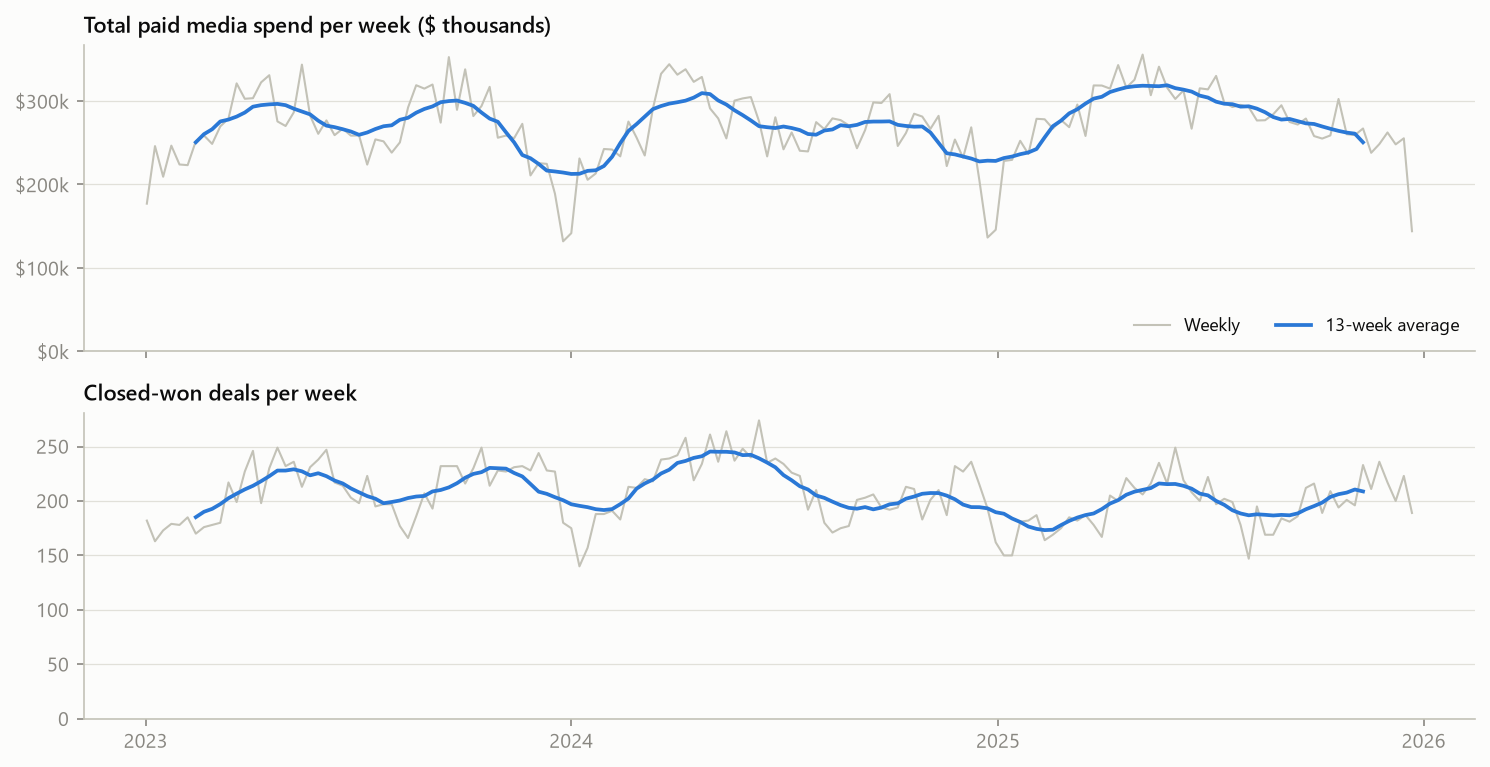
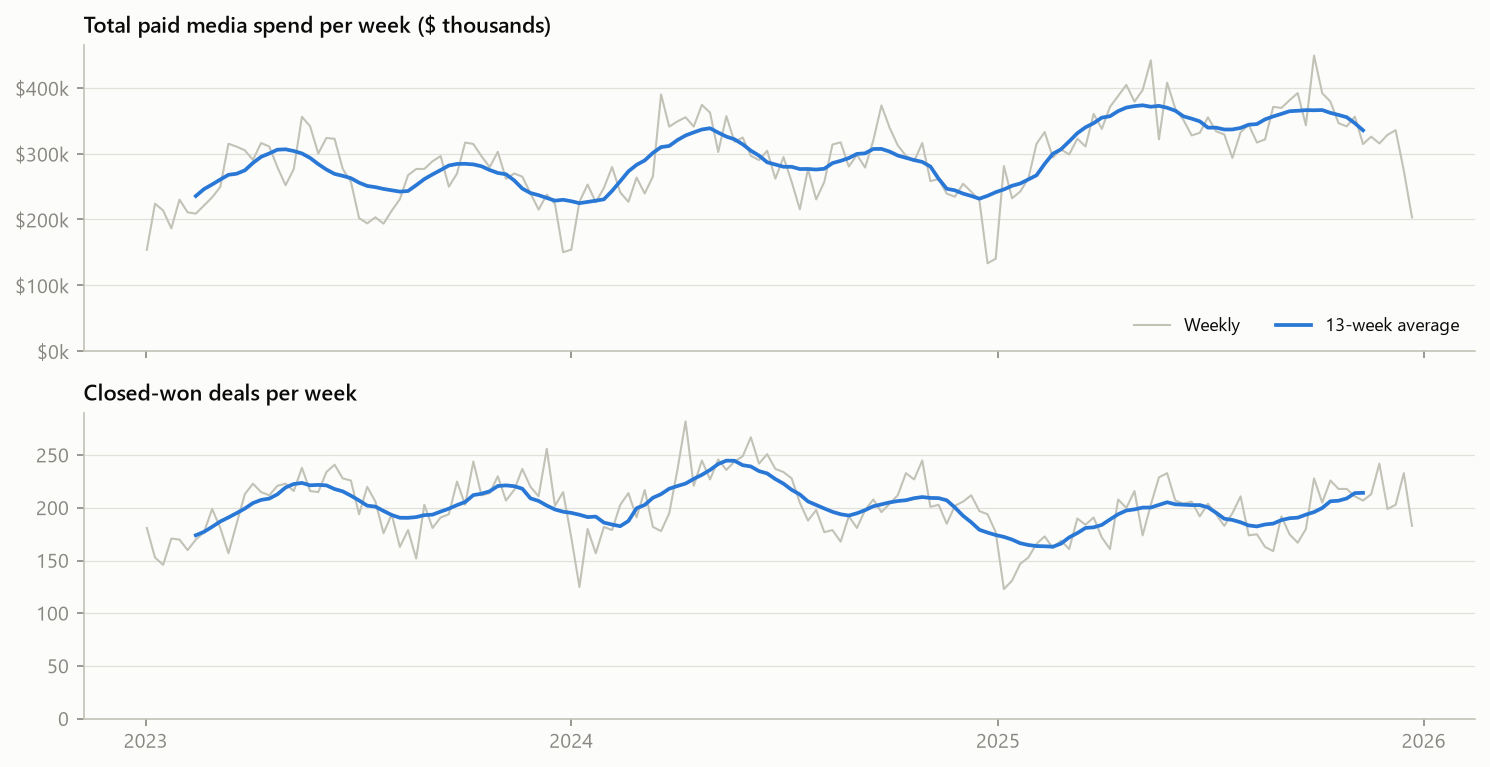
docs(eda): regenerate on the rebuilt world
Spend per deal goes $1,284, $1,349, $1,774. The collinearity check now flags
non-brand search against LinkedIn (0.78), the budget drift the story needs.

diff --git a/docs/eda/EDA.md b/docs/eda/EDA.md
@@ -4,7 +4,7 @@ Built by `python -m eda` from the dbt warehouse only: the golden tables plus a f
 
 ## 1. Validation checks
 
-10 of 10 checks pass; notes flag known limits. The dbt tests (`dbt build`) cover row-level rules; these are the checks an analyst reads before trusting the data.
+9 of 10 checks pass; notes flag known limits. The dbt tests (`dbt build`) cover row-level rules; these are the checks an analyst reads before trusting the data.
 
 | Check | Result | Status |
 |---|---|---|
@@ -12,13 +12,13 @@ Built by `python -m eda` from the dbt warehouse only: the golden tables plus a f
 | fct_channel_weekly is a full grid | 28,080 rows (expected 28,080) | Pass |
 | fct_funnel is a full grid | 40,560 rows (expected 40,560) | Pass |
 | fct_controls_weekly is a full grid | 3,120 rows (expected 3,120) | Pass |
-| Spend matches the platform exports | $42.1M in both; difference $0.00 | Pass |
+| Spend matches the platform exports | $45.6M in both; difference $0.00 | Pass |
 | No negative values; clicks never exceed impressions | 0 bad rows | Pass |
-| Every lead maps to a channel | 0 unmapped of 820,238; 18% recorded as direct | Pass |
+| Every lead maps to a channel | 0 unmapped of 830,748; 19% recorded as direct | Pass |
 | Lead to close (won deals) | median 14 days; 80% between 8 and 24 | Pass |
-| Censoring at the end of the window | 37% of opportunities from the last 4 weeks are still open; treat the final weeks of deals as incomplete | Note |
+| Censoring at the end of the window | 36% of opportunities from the last 4 weeks are still open; treat the final weeks of deals as incomplete | Note |
 | Promo and price calendar loaded | 4 entries | Pass |
-| Channels are not collinear | largest correlation 0.46 (Paid Search Brand and Paid Search Non-Brand); largest VIF 2.2 | Pass |
+| Channels are not collinear | largest correlation 0.78 (Paid Search Non-Brand and LinkedIn); largest VIF 4.3 | Review |
 
 ## 2. Outcome and spend over time
 
@@ -26,9 +26,9 @@ Built by `python -m eda` from the dbt warehouse only: the golden tables plus a f
 
 | Year | Paid spend | Leads | Closed-won deals | New contract value | Spend per deal |
 |---|---|---|---|---|---|
-| 2023 | $13.9M | 235,770 | 10,930 | $29.6M | $1,269 |
-| 2024 | $13.9M | 234,455 | 11,197 | $32.0M | $1,244 |
-| 2025 | $14.3M | 231,238 | 9,999 | $29.8M | $1,435 |
+| 2023 | $13.5M | 231,293 | 10,517 | $28.5M | $1,284 |
+| 2024 | $14.8M | 242,658 | 11,008 | $31.5M | $1,349 |
+| 2025 | $17.2M | 244,894 | 9,713 | $29.0M | $1,774 |
 
 The last few weeks of 2025 are undercounted for deals, because those leads have not had time to close.
 
@@ -40,14 +40,14 @@ Expected pattern for Midwest service fleets: busy when the season turns (AC swit
 
 | Period | Expected | Leads index (100 = average week) | Holds |
 |---|---|---|---|
-| Holiday weeks (51, 52, 1) | well below 100 | 71 | Yes |
-| Thanksgiving week (47) | below 100 | 94 | Yes |
-| Winter after the holidays (weeks 3 to 9) | below 100 | 92 | Yes |
-| Spring switchover, AC on (weeks 19 to 25) | above 100 | 111 | Yes |
-| Summer lull into early fall (weeks 29 to 37) | below 100 | 95 | Yes |
-| Fall switchover, heat on (weeks 40 to 45) | above 100 | 106 | Yes |
+| Holiday weeks (51, 52, 1) | well below 100 | 72 | Yes |
+| Thanksgiving week (47) | below 100 | 100 | Yes |
+| Winter after the holidays (weeks 3 to 9) | below 100 | 87 | Yes |
+| Spring switchover, AC on (weeks 19 to 25) | above 100 | 112 | Yes |
+| Summer lull into early fall (weeks 29 to 37) | below 100 | 93 | Yes |
+| Fall switchover, heat on (weeks 40 to 45) | above 100 | 117 | Yes |
 
-6 of 6 expectations hold. The data matches the planning calendar. During the year-end promo (weeks 46 to 50), deals run +11% relative to leads, which is what a discount on annual plans should do.
+6 of 6 expectations hold. The data matches the planning calendar. During the year-end promo (weeks 46 to 50), deals run +7% relative to leads, which is what a discount on annual plans should do.
 
 ## 4. How the media was flighted
 
@@ -62,10 +62,10 @@ Expected pattern for Midwest service fleets: busy when the season turns (AC swit
 | Meta | 156 | 20 | 156 | none |
 | LinkedIn | 156 | 20 | 156 | none |
 | YouTube | 156 | 20 | 156 | none |
-| Connected TV | 128 | 8 | 7 | 15 |
+| Connected TV | 103 | 8 | 8 | 15 |
 | Display Retargeting | 156 | 20 | 156 | none |
 | Affiliates and Partners | 156 | 20 | 156 | none |
-| Webinars | 122 | 20 | 1 | 8 |
+| Webinars | 123 | 20 | 1 | 8 |
 
 Media plan changes logged between annual plans:
 
@@ -80,12 +80,13 @@ Media plan changes logged between annual plans:
 | 2024-04-01 | Connected TV | -34% | Attribution review: video and CTV show few last-touch leads |
 | 2024-04-01 | Paid Search Non-Brand | +12% | Attribution review: video and CTV show few last-touch leads |
 | 2024-04-01 | YouTube | -31% | Attribution review: video and CTV show few last-touch leads |
-| 2024-08-05 | Display Retargeting | -15% | Cost cut during the hiring freeze |
-| 2024-08-05 | LinkedIn | -19% | Cost cut during the hiring freeze |
-| 2024-08-05 | Meta | -17% | Cost cut during the hiring freeze |
+| 2024-08-05 | LinkedIn | -19% | Hiring freeze: brand programs trimmed, search protected |
+| 2024-08-05 | Meta | -17% | Hiring freeze: brand programs trimmed, search protected |
+| 2024-08-05 | Paid Search Non-Brand | +10% | Hiring freeze: brand programs trimmed, search protected |
 | 2024-11-04 | Affiliates and Partners | -24% | Two reseller contracts end |
 | 2025-02-03 | Display Retargeting | +13% | New fiscal year: more for what last touch rewards |
-| 2025-02-03 | Paid Search Non-Brand | +9% | New fiscal year: more for what last touch rewards |
+| 2025-02-03 | LinkedIn | -15% | New fiscal year: more for what last touch rewards |
+| 2025-02-03 | Paid Search Non-Brand | +20% | New fiscal year: more for what last touch rewards |
 | 2025-06-02 | Meta | +23% | Meta retest after a new creative agency |
 | 2025-06-02 | YouTube | -14% | Meta retest after a new creative agency |
 
@@ -95,15 +96,15 @@ Media plan changes logged between annual plans:
 
 | Year | Performance | Brand | Events |
 |---|---|---|---|
-| 2023 | 68% | 27% | 5% |
-| 2024 | 76% | 19% | 5% |
-| 2025 | 78% | 16% | 5% |
+| 2023 | 57% | 38% | 5% |
+| 2024 | 67% | 29% | 5% |
+| 2025 | 76% | 19% | 4% |
 
 ## 6. Reporting sources disagree
 
 ![Claims vs CRM](img/claims_vs_crm.png)
 
-Platforms claim 774,768 conversions in total; the CRM credits 402,451 leads to paid channels. Connected TV gets 0 last-touch leads because nobody clicks a TV ad. Neither source measures what a channel adds; that is the MMM's job.
+Platforms claim 815,100 conversions in total; the CRM credits 410,887 leads to paid channels. Connected TV gets 0 last-touch leads because nobody clicks a TV ad. Neither source measures what a channel adds; that is the MMM's job.
 
 ## 7. Controls
 
@@ -123,39 +124,39 @@ What the data shows about how each channel was bought and reported. These are ob
 *Performance channel.* Bids on every search for Fernhook, always on in every market. Spend follows how many people search the brand, and Meta, YouTube and CTV ads drive some of those searches.
 
 - **When it ran:** On every week of the window; used in 20 of 20 regions, with about 20 active in a typical on-week. Always on in every region it uses.
-- **Spend:** 2023: $2.4M, 2024: $2.5M, 2025: $2.5M. Highest in Q2, lowest in Q3; the biggest week was 1.3 times a typical on-week. The top 5 regions take 50% of its spend and hold 51% of target accounts.
+- **Spend:** 2023: $2.4M, 2024: $2.5M, 2025: $2.6M. Highest in Q2, lowest in Q1; the biggest week was 1.4 times a typical on-week. The top 5 regions take 51% of its spend and hold 51% of target accounts.
 - **Plan changes:** none between annual plans.
-- **Reporting:** the platform claims 119,955 conversions; the CRM credits 130,792 last-touch leads (0.9 times). Last-touch cost per lead: 2023: $52, 2024: $57, 2025: $61.
-- **What to watch in the MMM:** its weekly spend tracks total leads closely (correlation 0.88). Spend that follows demand can look like it causes demand, and Meta, YouTube and CTV create some of the searches it pays for. It never pauses, so no test separates what it adds from the demand it follows.
+- **Reporting:** the platform claims 127,363 conversions; the CRM credits 137,074 last-touch leads (0.9 times). Last-touch cost per lead: 2023: $51, 2024: $53, 2025: $58.
+- **What to watch in the MMM:** its weekly spend tracks total leads closely (correlation 0.92). Spend that follows demand can look like it causes demand, and Meta, YouTube and CTV create some of the searches it pays for. It never pauses, so no test separates what it adds from the demand it follows.
 
 ### Paid Search Non-Brand
 
 *Performance channel.* Always on in every market. Budgets lean into busy seasons and are re-split across markets every quarter.
 
 - **When it ran:** On every week of the window; used in 20 of 20 regions, with about 20 active in a typical on-week. Always on in every region it uses.
-- **Spend:** 2023: $3.7M, 2024: $4.3M, 2025: $5.4M. Highest in Q2, lowest in Q4; the biggest week was 1.6 times a typical on-week. The top 5 regions take 49% of its spend and hold 47% of target accounts.
-- **Plan changes:** Apr 2023 +7% (Q1 review: CTV test expands, YouTube trimmed); Apr 2024 +12% (Attribution review: video and CTV show few last-touch leads); Feb 2025 +9% (New fiscal year: more for what last touch rewards).
-- **Reporting:** the platform claims 170,135 conversions; the CRM credits 115,877 last-touch leads (1.5 times). Last-touch cost per lead: 2023: $104, 2024: $110, 2025: $130.
-- **What to watch in the MMM:** always on and seasonal (correlation with total leads 0.42), so most of its signal comes from quarterly market re-splits and plan changes, not from week-to-week swings.
+- **Spend:** 2023: $3.4M, 2024: $5.2M, 2025: $8.4M. Highest in Q2, lowest in Q1; the biggest week was 2.2 times a typical on-week. The top 5 regions take 57% of its spend and hold 50% of target accounts.
+- **Plan changes:** Apr 2023 +7% (Q1 review: CTV test expands, YouTube trimmed); Apr 2024 +12% (Attribution review: video and CTV show few last-touch leads); Aug 2024 +10% (Hiring freeze: brand programs trimmed, search protected); Feb 2025 +20% (New fiscal year: more for what last touch rewards).
+- **Reporting:** the platform claims 168,911 conversions; the CRM credits 115,411 last-touch leads (1.5 times). Last-touch cost per lead: 2023: $115, 2024: $133, 2025: $180.
+- **What to watch in the MMM:** always on and seasonal (correlation with total leads 0.40), so most of its signal comes from quarterly market re-splits and plan changes, not from week-to-week swings.
 
 ### Meta
 
 *Brand channel.* Always-on prospecting that pushes before and into the spring and fall busy seasons and eases off in slow weeks. Each market's timing differs.
 
 - **When it ran:** On every week of the window; used in 20 of 20 regions, with about 20 active in a typical on-week. Always on in every region it uses.
-- **Spend:** 2023: $1.6M, 2024: $1.1M, 2025: $1.1M. Highest in Q2, lowest in Q4; the biggest week was 1.7 times a typical on-week. The top 5 regions take 42% of its spend and hold 34% of target accounts.
-- **Plan changes:** Oct 2023 -12% (Q4 plan: more retargeting for year-end); Aug 2024 -17% (Cost cut during the hiring freeze); Jun 2025 +23% (Meta retest after a new creative agency).
-- **Reporting:** the platform claims 189,241 conversions; the CRM credits 52,670 last-touch leads (3.6 times). Last-touch cost per lead: 2023: $75, 2024: $68, 2025: $68.
+- **Spend:** 2023: $1.6M, 2024: $1.4M, 2025: $1.4M. Highest in Q4, lowest in Q1; the biggest week was 3.0 times a typical on-week. The top 5 regions take 47% of its spend and hold 47% of target accounts.
+- **Plan changes:** Oct 2023 -12% (Q4 plan: more retargeting for year-end); Aug 2024 -17% (Hiring freeze: brand programs trimmed, search protected); Jun 2025 +23% (Meta retest after a new creative agency).
+- **Reporting:** the platform claims 219,287 conversions; the CRM credits 60,406 last-touch leads (3.6 times). Last-touch cost per lead: 2023: $75, 2024: $72, 2025: $71.
 - **What to watch in the MMM:** pushes land on the busy seasons, so spend rises when demand does. Each market's push comes on its own week and at its own size, and that is the contrast to learn from; the June 2025 retest adds a late step up.
 
 ### LinkedIn
 
-*Performance channel.* Lead-gen forms, always on. Market budgets are re-split every quarter.
+*Brand channel.* Lead-gen forms, always on. Market budgets are re-split every quarter.
 
 - **When it ran:** On every week of the window; used in 20 of 20 regions, with about 20 active in a typical on-week. Always on in every region it uses.
-- **Spend:** 2023: $1.3M, 2024: $1.4M, 2025: $1.1M. Highest in Q2, lowest in Q3; the biggest week was 1.6 times a typical on-week. The top 5 regions take 53% of its spend and hold 48% of target accounts.
-- **Plan changes:** Aug 2024 -19% (Cost cut during the hiring freeze).
-- **Reporting:** the platform claims 42,460 conversions; the CRM credits 20,300 last-touch leads (2.1 times). Last-touch cost per lead: 2023: $191, 2024: $196, 2025: $181.
+- **Spend:** 2023: $1.2M, 2024: $0.8M, 2025: $0.5M. Highest in Q1, lowest in Q3; the biggest week was 1.8 times a typical on-week. The top 5 regions take 66% of its spend and hold 51% of target accounts.
+- **Plan changes:** Aug 2024 -19% (Hiring freeze: brand programs trimmed, search protected); Feb 2025 -15% (New fiscal year: more for what last touch rewards).
+- **Reporting:** the platform claims 29,895 conversions; the CRM credits 14,380 last-touch leads (2.1 times). Last-touch cost per lead: 2023: $190, 2024: $173, 2025: $161.
 - **What to watch in the MMM:** always on with no pauses, so its signal comes from quarterly market re-splits and plan changes.
 
 ### YouTube
@@ -163,19 +164,19 @@ What the data shows about how each channel was bought and reported. These are ob
 *Brand channel.* National flights that run several weeks ahead of each busy season, with a low level in between. Each flight targets about three in four markets.
 
 - **When it ran:** On every week of the window; used in 20 of 20 regions, with about 20 active in a typical on-week. Always on in every region it uses.
-- **Spend:** 2023: $0.8M, 2024: $0.7M, 2025: $0.6M. Highest in Q3, lowest in Q4; the biggest week was 10.0 times a typical on-week. The top 5 regions take 46% of its spend and hold 47% of target accounts.
+- **Spend:** 2023: $1.0M, 2024: $1.0M, 2025: $0.8M. Highest in Q3, lowest in Q4; the biggest week was 12.3 times a typical on-week. The top 5 regions take 50% of its spend and hold 50% of target accounts.
 - **Plan changes:** Apr 2023 -22% (Q1 review: CTV test expands, YouTube trimmed); Apr 2024 -31% (Attribution review: video and CTV show few last-touch leads); Jun 2025 -14% (Meta retest after a new creative agency).
-- **Reporting:** the platform claims 54,859 conversions; the CRM credits 2,816 last-touch leads (19.5 times). Last-touch cost per lead: 2023: $701, 2024: $718, 2025: $732.
+- **Reporting:** the platform claims 74,242 conversions; the CRM credits 3,928 last-touch leads (18.9 times). Last-touch cost per lead: 2023: $726, 2024: $704, 2025: $708.
 - **What to watch in the MMM:** flights are national and run ahead of each busy season, so they line up with the run-up in demand; long carryover means effects can land in the busy weeks after a flight ends.
 
 ### Connected TV
 
 *Brand channel.* A market test in 8 markets. Each runs its own flight ahead of each busy season and goes dark between flights.
 
-- **When it ran:** On 128 of 156 weeks nationally; used in 8 of 20 regions, with about 3 active in a typical on-week. Within a region it typically runs 7 weeks on, then pauses for 15 weeks (40 regional pauses in all).
-- **Spend:** 2023: $1.4M, 2024: $0.9M, 2025: $0.7M. Highest in Q3, lowest in Q1; the biggest week was 3.3 times a typical on-week. The top 5 regions take 78% of its spend and hold 36% of target accounts.
+- **When it ran:** On 103 of 156 weeks nationally; used in 8 of 20 regions, with about 4 active in a typical on-week. Within a region it typically runs 8 weeks on, then pauses for 15 weeks (40 regional pauses in all).
+- **Spend:** 2023: $1.3M, 2024: $1.0M, 2025: $0.6M. Highest in Q2, lowest in Q1; the biggest week was 2.8 times a typical on-week. The top 5 regions take 83% of its spend and hold 36% of target accounts.
 - **Plan changes:** Apr 2023 +15% (Q1 review: CTV test expands, YouTube trimmed); Apr 2024 -34% (Attribution review: video and CTV show few last-touch leads).
-- **Reporting:** the platform claims 38,598 conversions; the CRM credits 0 last-touch leads (with no CRM credit to compare against). Last-touch cost per lead: not defined (no CRM credit).
+- **Reporting:** the platform claims 42,749 conversions; the CRM credits 0 last-touch leads (with no CRM credit to compare against). Last-touch cost per lead: not defined (no CRM credit).
 - **What to watch in the MMM:** runs in only 8 regions. The other 12 regions are a natural comparison group, and each test market times its own flights.
 
 ### Display Retargeting
@@ -183,9 +184,9 @@ What the data shows about how each channel was bought and reported. These are ob
 *Performance channel.* Always-on retargeting of past site visitors. Market budgets are re-split every quarter.
 
 - **When it ran:** On every week of the window; used in 20 of 20 regions, with about 20 active in a typical on-week. Always on in every region it uses.
-- **Spend:** 2023: $1.4M, 2024: $1.5M, 2025: $1.7M. Highest in Q2, lowest in Q4; the biggest week was 2.0 times a typical on-week. The top 5 regions take 58% of its spend and hold 48% of target accounts.
-- **Plan changes:** Oct 2023 +18% (Q4 plan: more retargeting for year-end); Aug 2024 -15% (Cost cut during the hiring freeze); Feb 2025 +13% (New fiscal year: more for what last touch rewards).
-- **Reporting:** the platform claims 49,980 conversions; the CRM credits 21,585 last-touch leads (2.3 times). Last-touch cost per lead: 2023: $197, 2024: $217, 2025: $231.
+- **Spend:** 2023: $1.3M, 2024: $1.5M, 2025: $1.6M. Highest in Q1, lowest in Q2; the biggest week was 2.3 times a typical on-week. The top 5 regions take 55% of its spend and hold 47% of target accounts.
+- **Plan changes:** Oct 2023 +18% (Q4 plan: more retargeting for year-end); Feb 2025 +13% (New fiscal year: more for what last touch rewards).
+- **Reporting:** the platform claims 46,405 conversions; the CRM credits 21,952 last-touch leads (2.1 times). Last-touch cost per lead: 2023: $179, 2024: $198, 2025: $216.
 - **What to watch in the MMM:** always on and retargets people who already visited, so it overlaps with demand from every other channel.
 
 ### Affiliates and Partners
@@ -193,29 +194,29 @@ What the data shows about how each channel was bought and reported. These are ob
 *Performance channel.* Placement and sponsor fees with local resellers and fleet consultants, set when each market's contracts renew every quarter. Commissions are booked as cost of sale.
 
 - **When it ran:** On every week of the window; used in 20 of 20 regions, with about 20 active in a typical on-week. Always on in every region it uses.
-- **Spend:** 2023: $0.6M, 2024: $0.8M, 2025: $0.5M. Highest in Q2, lowest in Q4; the biggest week was 1.7 times a typical on-week. The top 5 regions take 58% of its spend and hold 46% of target accounts.
+- **Spend:** 2023: $0.6M, 2024: $0.7M, 2025: $0.6M. Highest in Q2, lowest in Q4; the biggest week was 1.4 times a typical on-week. The top 5 regions take 58% of its spend and hold 43% of target accounts.
 - **Plan changes:** Apr 2024 +21% (Attribution review: video and CTV show few last-touch leads); Nov 2024 -24% (Two reseller contracts end).
-- **Reporting:** the platform claims 60,949 conversions; the CRM credits 26,723 last-touch leads (2.3 times). Last-touch cost per lead: 2023: $74, 2024: $82, 2025: $68.
-- **What to watch in the MMM:** fees change only when each market's contracts renew, so there are few distinct spend levels to learn from, and the top 5 regions take 58% of spend against 46% of accounts.
+- **Reporting:** the platform claims 56,556 conversions; the CRM credits 24,804 last-touch leads (2.3 times). Last-touch cost per lead: 2023: $76, 2024: $85, 2025: $74.
+- **What to watch in the MMM:** fees change only when each market's contracts renew, so there are few distinct spend levels to learn from, and the top 5 regions take 58% of spend against 43% of accounts.
 
 ### Webinars
 
 *Events channel.* Regional live events. Cost lands in the week of each event.
 
-- **When it ran:** On 122 of 156 weeks nationally; used in 20 of 20 regions, with about 2 active in a typical on-week. Spend comes in single weeks; a region typically goes 8 weeks between them.
-- **Spend:** 2023: $0.7M, 2024: $0.7M, 2025: $0.8M. Highest in Q2, lowest in Q4; the biggest week was 4.2 times a typical on-week. The top 5 regions take 57% of its spend and hold 51% of target accounts.
+- **When it ran:** On 123 of 156 weeks nationally; used in 20 of 20 regions, with about 2 active in a typical on-week. Spend comes in single weeks; a region typically goes 8 weeks between them.
+- **Spend:** 2023: $0.7M, 2024: $0.7M, 2025: $0.8M. Highest in Q1, lowest in Q4; the biggest week was 3.1 times a typical on-week. The top 5 regions take 56% of its spend and hold 51% of target accounts.
 - **Plan changes:** none between annual plans.
-- **Reporting:** the platform claims 48,591 conversions; the CRM credits 31,688 last-touch leads (1.5 times). Last-touch cost per lead: 2023: $70, 2024: $64, 2025: $67.
+- **Reporting:** the platform claims 49,692 conversions; the CRM credits 32,932 last-touch leads (1.5 times). Last-touch cost per lead: 2023: $68, 2024: $66, 2025: $64.
 - **What to watch in the MMM:** spend lands in one region and one week at a time, a strong natural experiment.
 
 ## 9. Strongest spend correlations
 
 | Channel A | Channel B | Correlation |
 |---|---|---|
-| Paid Search Brand | Paid Search Non-Brand | 0.46 |
-| LinkedIn | Affiliates and Partners | 0.44 |
-| Paid Search Brand | Meta | 0.41 |
-| YouTube | Connected TV | 0.41 |
-| Meta | Connected TV | 0.38 |
+| Paid Search Non-Brand | LinkedIn | -0.78 |
+| Paid Search Brand | Connected TV | 0.61 |
+| Paid Search Brand | Meta | 0.56 |
+| Meta | Connected TV | 0.52 |
+| Paid Search Non-Brand | Display Retargeting | 0.40 |
 
-Variance inflation (VIF) of national weekly spend: Paid Search Brand 2.2, Paid Search Non-Brand 1.9, Connected TV 1.6, Meta 1.5, LinkedIn 1.4, Affiliates and Partners 1.3, YouTube 1.2, Display Retargeting 1.2, Webinars 1.0.
+Variance inflation (VIF) of national weekly spend: Paid Search Non-Brand 4.3, Paid Search Brand 3.3, LinkedIn 3.1, Connected TV 2.3, Meta 1.9, Display Retargeting 1.3, YouTube 1.1, Affiliates and Partners 1.1, Webinars 1.1.
